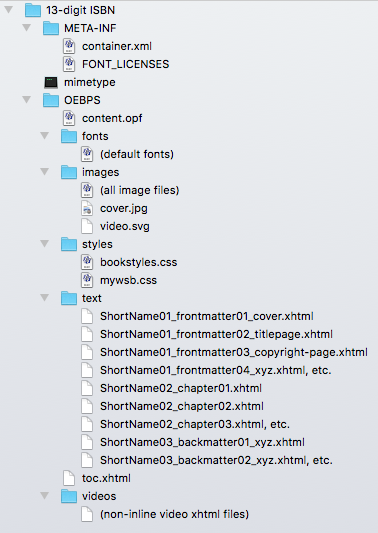
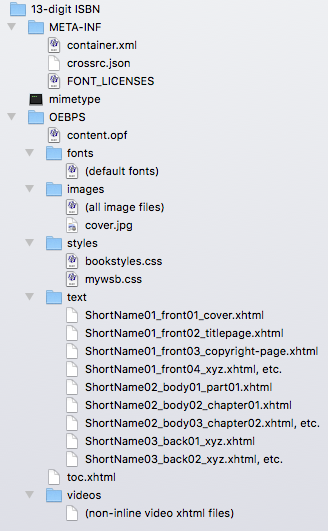
make changes for new project directory structure

diff --git a/source/code/construction.md b/source/code/construction.md
@@ -5,7 +5,7 @@ title: Constructing an EPUB
 
 Name the EPUB project files and folders according to the following conventions.
 
-<table><tr><th>File/Folder</th><th>Naming Convention</th></tr><tr><td>Root project folder</td><td>_13-digit ISBN_</td></tr><tr><td>EPUB package and container files</td><td>Use the conventions shown in the Directory Structure section below.</td></tr><tr><td>Fonts</td><td>Include all default style sheet fonts.</td></tr><tr><td>Images</td><td>Include one cover image _(1333x2000 minimum), named cover.jpg_, along with all book images and video poster SVGs. _Also make sure to include "video.svg."_</td></tr><tr><td>Styles</td><td>Include only mywsb.css and bookstyles.css.</td></tr><tr><td>Videos</td><td>Include one XHTML document with video markup **for each each non-inline video** (more common with glossaries and notes).</td></tr><tr><td>Text</td><td>Each XHTML file should be named with:<ol><li>Short name</li><li>One of three numbers expressing order:<ul><li>01 = frontmatter</li><li>02 = bodymatter (named chapterXX)</li><li>03 = backmatter</li></ul></li><li>Section name as shown by example below</li></ol></td></tr><tr><td>Text: Front Matter</td><td>ShortName01_frontmatter01_cover.xhtml<br />ShortName01_frontmatter02_titlepage.xhtml<br />ShortName01_frontmatter03_copyright-page.xhtml<br />ShortName01_frontmatter04_xyz.xhtml (etc.)<br /><br /><em>Sections 01-03 should be in every EPUB. The numbers should then be sequential from that point forward, and the name that follows the number should correspond to the `epub:type` in the document.</em><br /><br /><em>Exception: name abbreviation documents "abbr" rather than "glossary."</em></td></tr><tr><td>Text: Main Content</td><td>ShortName02_chapter01.xhtml<br />ShortName02_chapter02.xhtml<br />ShortName02_chapter03.xhtml (etc.)</td></tr><tr><td>Text: Back Matter</td><td>ShortName03_backmatter01_xyz.xhtml (etc.)<br /><br /><em>As with frontmatter, backmatter section numbers should be sequential, starting with 01, and the name that follows the number should correspond to the epub:type in the document.</em></td></tr></table>
+<table><tr><th>File/Folder</th><th>Naming Convention</th></tr><tr><td>Root project folder</td><td>_13-digit ISBN_</td></tr><tr><td>EPUB package and container files</td><td>Use the conventions shown in the Directory Structure section below.</td></tr><tr><td>Fonts</td><td>Include all default style sheet fonts.</td></tr><tr><td>Images</td><td>Include one cover image _(1333x2000 minimum), named cover.jpg_, along with all book images and video poster SVGs.</td></tr><tr><td>Styles</td><td>Include only mywsb.css and bookstyles.css.</td></tr><tr><td>Videos</td><td>Include one XHTML document with video markup **for each each non-inline video** (more common with glossaries and notes).</td></tr><tr><td>Text</td><td>Each XHTML file should be named with:<ol><li>Short name</li><li>One of three numbers + type, expressing order:<ul><li>01_front = frontmatter</li><li>02_body = bodymatter</li><li>03_back = backmatter</li></ul></li><li>Sequence number + section name as shown by example below</li></ol></td></tr><tr><td>Text: Front Matter</td><td>ShortName01_front01_cover.xhtml<br />ShortName01_front02_titlepage.xhtml<br />ShortName01_front03_copyright-page.xhtml<br />ShortName01_front04_xyz.xhtml (etc.)<br /><br /><em>The section numbers should be sequential, starting with 01, and the name that follows the number should correspond to the `epub:type` in the document or a brief, descriptive name if there is no corresponding type.</em><br /><br /><em>Exception: name abbreviation documents "abbr" rather than "glossary."</em></td></tr><tr><td>Text: Main Content</td><td>ShortName02_body01_part01.xhtml<br />ShortName02_body02_chapter01.xhtml<br />ShortName02_body03_chapter02.xhtml (etc.)<br /><br /><em>Section numbers should be sequential for bodymatter as well, followed by either "part" or "chapter" along with its numerical ordinal.</em></td></tr><tr><td>Text: Back Matter</td><td>ShortName03_back01_xyz.xhtml (etc.)<br /><br /><em>As with frontmatter, backmatter section numbers should be sequential, starting with 01, and the name that follows the number should correspond to the `epub:type` in the document.</em></td></tr></table>
 
 ## Directory Structure
 

diff --git a/source/code/metadata.md b/source/code/metadata.md
@@ -10,28 +10,10 @@ The required elements are `<dc:identifier>`, `<dc:title>`, and `<dc:language>`, 
 
 ```xml
 <metadata xmlns:dc="http://purl.org/dc/elements/1.1/">
-  <meta name="cover" content="cover.jpg" />
-  <meta property="ibooks:specified-fonts">true</meta>
   <dc:identifier id="isbn">urn:isbn:<!-- EPUB ISBN here --></dc:identifier>
   <meta property="dcterms:modified">2017-01-04T18:38:55Z</meta>
-
-  <!-- Titles -->
-  <dc:title id="the-title">The Book Title</dc:title>
-  <!-- Additional <dc:title> elements are often required for accessibility -->
-
-  <!-- Creators -->
-  <dc:creator id="creator-1">First Last</dc:creator>
-  <meta refines="#creator-1" property="file-as">Last, First</meta>
-  <meta refines="#creator-1" property="role" scheme="marc:relators">aut</meta>
-  <!-- Use additional <dc:creator> elements for each author and editor -->
-
-  <!-- Publication -->
-  <dc:date>2017</dc:date><!-- year in which you are developing the EPUB -->
-  <dc:publisher>Publisher Name</dc:publisher>
-  <meta property="marc:relators:pup"><!-- publisher place (city and state) --></meta>
-  <meta property="dcterms:dateCopyrighted">2015</meta><!-- copyright year of the publication -->
-  <meta property="dcterms:rightsHolder"><!-- copyright holder(s) --></meta>
-  <dc:rights><!-- all rights/permissions from copyright page --></dc:rights>
+  <dc:title>The Full, Expanded Title</dc:title>
+  <dc:creator>First Last</dc:creator>
   <dc:language>en</dc:language>
   <dc:source>urn:isbn:<!-- print/source ISBN here --></dc:source>
 </metadata>
@@ -39,46 +21,18 @@ The required elements are `<dc:identifier>`, `<dc:title>`, and `<dc:language>`, 
 
 ## Subtitle and Edition Metadata
 
-When the work has a subtitle and/or an edition, multiple `<dc:title>` elements must be used and refined with <code>title-type</code>.
-
-Any time an EPUB requires multiple `<dc:title>` elements:
-
-* each title type must appear in the appropriate order, and
-* the "expanded" title type must always be included as the top element.
+When the work has a subtitle and/or an edition, make sure to include it in the `<dc:title>` element.
 
 ```xml
-<dc:title id="full-title">The Essence of the New Testament: A Survey, 2nd Edition</dc:title>
-<meta refines="#full-title" property="title-type">expanded</meta>
-
-<dc:title id="the-title">The Essence of the New Testament</dc:title>
-<meta refines="#the-title" property="title-type">main</meta>
-
-<dc:title id="the-subtitle">A Survey</dc:title>
-<meta refines="#the-subtitle" property="title-type">subtitle</meta>
-
-<dc:title id="the-edition">2nd Edition</dc:title>
-<meta refines="#the-edition" property="title-type">edition</meta>
+<dc:title>The Essence of the New Testament: A Survey, 2nd Edition</dc:title>
 ```
 
 ## Set/Series Metadata
 
-Sets, or series, also require multiple `<dc:title>` elements along with <code>refines</code> attributes.
-
-Additionally, the <code>group-position</code> property determines this volume's position in the set.
-
-<aside class="caution">As with subtitles and editions, including additional `<dc:title>` elements necessitates the use of the "expanded" title type at the top.</aside>
+Likewise, when the work is part of a set or series, make sure to include the set title in the `<dc:title>` element.
 
 ```xml
-<dc:title id="full-title">The Lord of the Rings: The Fellowship of the Ring</dc:title>
-<meta refines="#full-title" property="title-type">expanded</meta>
-
-<dc:title id="the-title">The Fellowship of the Ring</dc:title>
-<meta refines="#the-title" property="title-type">main</meta>
-
-<dc:title id="set-title">The Lord of the Rings</dc:title>
-<meta refines="#set-title" property="title-type">collection</meta>
-<meta refines="#set-title" property="group-position">1</meta>
-<!-- The "1" above indicates that this is the first in a series -->
+<dc:title>The Lord of the Rings: The Fellowship of the Ring</dc:title>
 ```
 
 ## Journal Metadata

diff --git a/source/process/git.md b/source/process/git.md
@@ -5,18 +5,34 @@ Get yourself right with Git.
 
 Recommended free course: [How to Use Git and GitHub](https://www.udacity.com/course/how-to-use-git-and-github--ud775)
 
-## Before using
-***(do this only once)***
+## Commit
 
-1. Create a `.gitignore` file in your home directory (`\~/`)
-2. Then, add a line with ".DS_Store" without the quotes to that file
-3. In your terminal, enter
+If you add any files to the directory, you'll need to add them to tracking ***before*** you commit:
 
 ```plain
-git config --global core.excludesfile \~/.gitignore
+git add --all
 ```
 
-## Create a local repo
+You can't really commit too much, so commit often (once per logical set of changes is a good rule of thumb). You will likely commit multiple times per hour.
+
+See our [Git commit message guidelines](../code/git_commit.html).
+
+```plain
+git commit -am "commit message here"
+```
+
+## Push
+
+A push will upload your local Git repo to its remote counterpart. You do not need to push every time you commit. Make a habit of pushing your repo at least once or twice each work day.
+
+```plain
+git push origin master
+```
+
+## For reference
+***(no longer necessary with the latest process)***
+
+### Create a local repo
 
 Initialize the repo and make your first commit.
 
@@ -26,7 +42,7 @@ git add --all
 git commit -am "initial commit"
 ```
 
-## Create a remote repo in GitHub
+### Create a remote repo in GitHub
 
 1. Navigate to [https://github.com/bhdirect-ebooks](https://github.com/bhdirect-ebooks)
 2. Click the green "New" button
@@ -37,33 +53,19 @@ git commit -am "initial commit"
 5. Select "Private"
 6. Click "Create repository"
 
-## Add the remote to the local repo and push
+### Add the remote to the local repo and push
 
 ```plain
 git remote add origin (the remote repo url)
 git push origin master
 ```
 
-## Commit
+### Before using (only needed once)
 
-You can't really commit too much, so commit often (once per logical set of changes is a good rule of thumb). You will likely commit multiple times per work hour.
-
-See our [Git commit message guidelines](../code/git_commit.html).
-
-```plain
-git commit -am "commit message here"
-```
-
-If you add any files to the directory, you'll need to add them to tracking ***before*** you commit:
+1. Create a `.gitignore` file in your home directory (`\~/`)
+2. Then, add a line with ".DS_Store" without the quotes to that file
+3. In your terminal, enter
 
 ```plain
-git add --all
-```
-
-## Push
-
-A push will upload your local Git repo to its remote counterpart. You do not need to push every time you commit. Make a habit of pushing your repo at least once or twice each work day.
-
-```plain
-git push origin master
+git config --global core.excludesfile \~/.gitignore
 ```

diff --git a/source/process/epub_dir.md b/source/process/epub_dir.md
@@ -5,13 +5,57 @@ It's just file naming, right?
 
 ## Related Tools/Scripts
 
-[split-files-for-epub (script)](https://cms.lifeway.com/share/page/site/bh-academic/document-details?nodeRef=workspace://SpacesStore/18c39ebf-6433-495f-9b17-ff0d2b89a665)
-
-* Install [Satimage osax (2nd from top)](http://www.satimage.fr/software/en/downloads/downloads_companion_osaxen.html) before running this script.
+[split-files (node)](https://github.com/bhdirect-ebooks/split-files)
 
 How to use:
 
-<iframe width="560" height="315" src="https://www.youtube.com/embed/0xC2vKnCIZg" frameborder="0" allowfullscreen></iframe>
+<iframe width="560" height="315" src="https://www.youtube.com/embed/ArEiGm9T_2g" frameborder="0" allowfullscreen></iframe>
+
+**Use one of the following comments at the beginning of each section break:**
+  * `<!-- front [section] -->`
+  * `<!-- toc -->`
+  * `<!-- part -->`
+  * `<!-- chapter -->`
+  * `<!-- notes -->` - *use only for notes in a chapter (for a notes document in backmatter, use `<!-- back footnotes -->`)*
+  * `<!-- back [section] -->`
+  * `<!-- trim -->` - *use to remove content*
+  * `<!-- ^continue^ -->` - *use to include the content with the previous section after a `<!-- trim -->` or `<!-- notes -->` section*
+
+**Front and back section types:**
+*(If a section type is not found below, use a brief descriptive name. For definitions of any type below, see [EPUB 3 Structural Semantics Vocabulary](https://idpf.github.io/epub-vocabs/structure/))*
+
+**For use with "front":**
+abbr *(use for abbreviation lists)*
+copyright-page
+cover
+dedication
+epigraph
+foreword
+introduction
+preamble
+preface
+prologue
+titlepage
+
+**For use with "back":**
+afterword
+appendix
+conclusion
+epilogue
+footnotes
+index
+
+**For use with "front" or "back":**
+acknowledgments
+bibliography
+colophon
+contributors
+errata
+glossary
+imprimatur
+imprint
+other-credits
+revision-history
 
 ## Recommended Code
 

diff --git a/source/code/structural_types.md b/source/code/structural_types.md
@@ -31,10 +31,24 @@ The title page section should be in the second frontmatter document, and it shou
 
 The copyright page should be the third frontmatter document.
 
+On the copyright page, use a handful of special classes to indicate types of data:
+
+  * `.permissions` - use with every paragraph that contains permissions/rights information
+  * `.year` - use with `<span>` to tag the copyright year (or string of years)
+  * `.copyright` - use with the paragraph that contains the whole copyright string
+  * `.pub-place` - use with `<span>` or `<p>` to indicate the publisher's location
+
+Note the use of those classes below:
+
 ```html
 <body epub:type="frontmatter">
   <section epub:type="copyright-page">
+    <p class="copyright">© <span class="year">1996</span> John Knox Press</p>
     <p>Copyright page content in &#60;p&#62; tags.</p>
+    <p>etc.</p>
+    <p class="pub-place">Louisville, Kentucky</p>
+    <p class="permissions">All rights reserved.</p>
+    <p class="permissions">Unless otherwise noted, Scripture is taken from the NIV, etc.</p>
     <p>etc.</p>
   </section>
 </body>

diff --git a/source/_posts/2017-05-23-post.md b/source/_posts/2017-05-23-post.md
@@ -1,0 +1,15 @@
+title: Style Guide Updates
+---
+
+This release incorporates all changes that support our new project directory structure and scripting needs:
+
+## Process
+  * [Project Admin](../process/project_admin.html) no longer includes creating the Git and GitHub repos.
+  * The [Git and Github](../process/git.html) page is now just a general Git reference.
+  * Triage has become [Project Scaffolding](../process/proj_scaffold.html) and has a video and details on the new project directory structure and the start-project module.
+  * [EPUB Directories and Files](../process/epub_dir.html) includes a video and details for the new node split-files module.
+
+## Code
+  * [Constructing an EPUB](../code/construction.html) has the latest conventions for naming EPUB files and directories *(and removes the video.svg requirement)*.
+  * [EPUB Metadata](../code/metadata.html) greatly reduces the number of required metadata elements.
+  * The [Copyright Page](../code/structural_types.html#Copyright-Page) section outlines the requirements for special copyright page classes.

diff --git a/source/code/epub_style.md b/source/code/epub_style.md
@@ -3,13 +3,13 @@ title: EPUB Style Rules
 
 ## EPUB Specification
 
-Use EPUB 3.0.1 (soon, 3.1, but not yet)
+Use EPUB 3.0.1
 
 See: [EPUB 3 Overview, 26 June 2014 Specification](http://www.idpf.org/epub/301/spec/epub-overview-20140626.html)
 
 ## EPUB Validity
 
-EPUBs must be validated with epubcheck, version 4.0.2 or greater.
+EPUBs must be validated with epubcheck, version 4.0.2 or greater. *Ignore font warnings.
 
 ## EPUB Construction
 
@@ -23,4 +23,4 @@ See: [EPUB 3 Structural Semantics Vocabulary](https://idpf.github.io/epub-vocabs
 
 ## EPUB Formatting Rules
 
-Formatting XHTML documents for EPUB will be discussed throughout the remainder this document. The examples contained in the documentation should be understood as the recommended styles under this Style Guide.
+Formatting XHTML documents for EPUB will be discussed throughout the guide. The examples contained in the Style Guide should be understood as recommended code.

diff --git a/source/process/project_admin.md b/source/process/project_admin.md
@@ -8,9 +8,6 @@ Where it all begins... and ends.
 1. Add yourself to the Trello card and move it to "In Development"
 2. Create or add yourself to the project in Harvest.
 3. Track time in Harvest
-4. After initializing your project in [Git and GitHub](git.html), add the repo(s) to the Trello card.
-   * For each repo, click on GitHub, then
-     Attach Branch → Choose a different repo → \[search for and click repo\] → master
 
 ## Review
 
@@ -21,6 +18,8 @@ Where it all begins... and ends.
 
 ## Related Tools/Scripts
 
-[Trello (web app)](https://trello.com/wordsearchbhacademiccontentdevelopmentteam 'Trelloundefined)
+[Trello (web app)](https://trello.com/wordsearchbhacademiccontentdevelopmentteam)
 
-[Harvest (app/web app)](https://lifewaychristianresources.harvestapp.com/ 'Harvest IDundefined)
+[Harvest (app/web app)](https://lifewaychristianresources.harvestapp.com/)
+
+[Git and GitHub](git.html)

diff --git a/source/process/proj_scaffold.md b/source/process/proj_scaffold.md
@@ -1,0 +1,20 @@
+title: Project Scaffolding
+---
+
+Scaffoldin'? Aw yeeeah.
+
+## Project Directory
+
+Become familiar with the project directory structure:
+
+![Screen shot of our project directory structure.](../assets/images/project-dir.png)
+
+<iframe width="560" height="315" src="https://www.youtube.com/embed/lT9YCsChMSM" frameborder="0" allowfullscreen></iframe>
+
+## Related Tools/Scripts
+
+[start-project (node)](https://github.com/bhdirect-ebooks/start-project)
+
+* Install globally with npm and use with every project.
+  * Clone the project repo and `cd` into it.
+  * Then, just enter `start-project`, and the script will prompt you for some info and return some important project information.

diff --git a/source/process/index.md b/source/process/index.md
@@ -6,13 +6,11 @@ title: Dev Process Overview
 ### A. Start the project
 
 1. [Project Admin](project_admin.html)
-1. [Triage (project info gathering)](triage.html)
-1. Create a Git repository (see [Git and GitHub](git.html))
+1. [Project Scaffolding](proj_scaffold.html)
 
 ### B. Create EPUB directory
 
 * Structure and name [EPUB Directories and Files](epub_dir.html)
-* Add main EPUB `<body>` and `<section>` types
 
 ## II. Clean & Code
 
@@ -31,7 +29,7 @@ title: Dev Process Overview
 ### B. Create well-formed EPUB documents
 
 * [Package document (content.opf)](package_doc.html)
-* Navigation document (toc.xhtml)
+* [Navigation document (toc.xhtml)](nav_doc.html)
 
 ## III. Enhance
 

diff --git a/source/code/navigation.md b/source/code/navigation.md
@@ -27,7 +27,7 @@ General guidelines for the TOC:
 * should not include elements that appear prior to the TOC in its linear order.
 
 ```html
-<nav epub:type="toc" id="toc">
+<nav epub:type="toc">
   <h1>Table of Contents</h1>
   <ol>
     <!-- <li> elements with <a>, linking to each location -->
